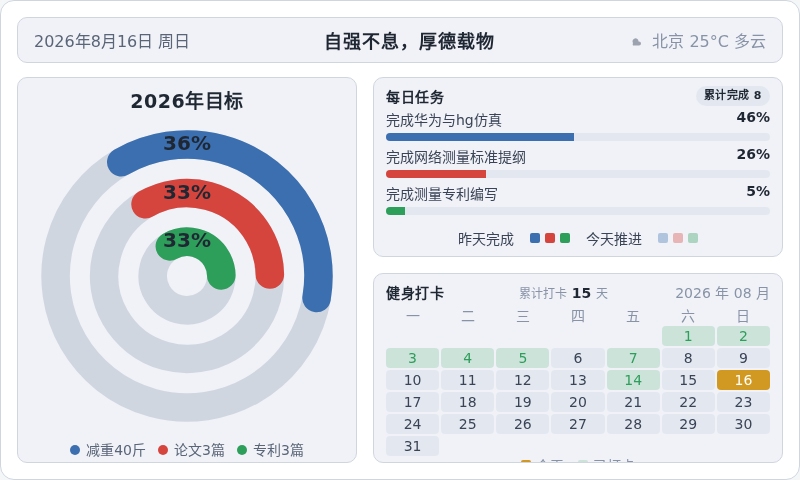
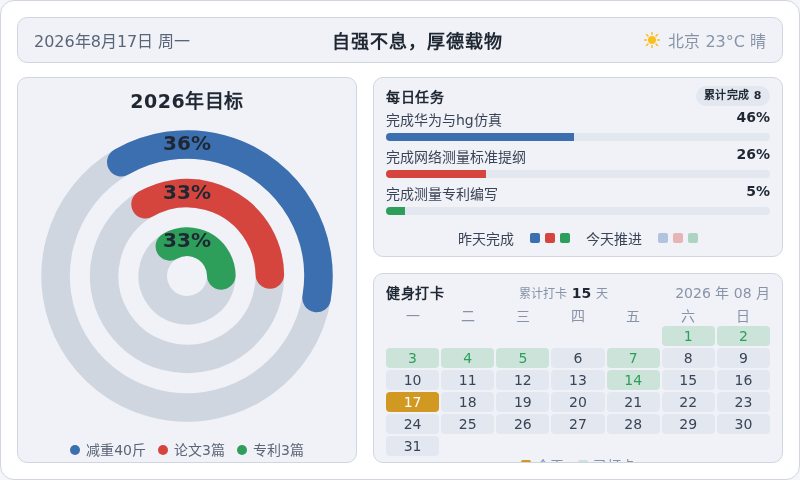
chore: 每日看板刷新 2026-08-17

diff --git a/output/dashboard.html b/output/dashboard.html
@@ -185,11 +185,11 @@
 <body>
   <div class="dash">
     <div class="topbar">
-      <div class="tb-date" id="tbDate">2026年8月16日 周日</div>
+      <div class="tb-date" id="tbDate">2026年8月17日 周一</div>
       <div class="tb-slogan">自强不息，厚德载物</div>
       <div class="tb-weather">
-        <svg width="16" height="16" viewBox="0 0 16 16" aria-hidden="true"><path d="M5 11 a3 3 0 1 1 5.5 -1.5 h0.5 a2 2 0 1 1 0 4 H5 a2.5 2.5 0 0 1 0 -2.5z" fill="#9ca3af"/></svg>
-        <span>北京 25°C 多云</span>
+        <svg width="16" height="16" viewBox="0 0 16 16" aria-hidden="true"><circle cx="8" cy="8" r="4" fill="#fbbf24"/><g stroke="#fbbf24" stroke-width="1.5" stroke-linecap="round"><line x1="8" y1="0.5" x2="8" y2="2.5"/><line x1="8" y1="13.5" x2="8" y2="15.5"/><line x1="0.5" y1="8" x2="2.5" y2="8"/><line x1="13.5" y1="8" x2="15.5" y2="8"/><line x1="2.5" y1="2.5" x2="3.9" y2="3.9"/><line x1="12.1" y1="12.1" x2="13.5" y2="13.5"/><line x1="13.5" y1="2.5" x2="12.1" y2="3.9"/><line x1="3.9" y1="12.1" x2="2.5" y2="13.5"/></g></svg>
+        <span>北京 23°C 晴</span>
       </div>
     </div>
     <div class="content">
@@ -248,7 +248,7 @@
           <span class="cal-date">2026 年 08 月</span>
         </div>
         <div class="cal-grid wk"><span>一</span><span>二</span><span>三</span><span>四</span><span>五</span><span>六</span><span>日</span></div>
-        <div class="cal-grid"><span class="cell empty"></span><span class="cell empty"></span><span class="cell empty"></span><span class="cell empty"></span><span class="cell empty"></span><span class="cell done" style="background:rgba(46,158,91,0.18);color:#2e9e5b">1</span><span class="cell done" style="background:rgba(46,158,91,0.18);color:#2e9e5b">2</span><span class="cell done" style="background:rgba(46,158,91,0.18);color:#2e9e5b">3</span><span class="cell done" style="background:rgba(46,158,91,0.18);color:#2e9e5b">4</span><span class="cell done" style="background:rgba(46,158,91,0.18);color:#2e9e5b">5</span><span class="cell" style="background:#e3e8f0;color:#3a4456">6</span><span class="cell done" style="background:rgba(46,158,91,0.18);color:#2e9e5b">7</span><span class="cell" style="background:#e3e8f0;color:#3a4456">8</span><span class="cell" style="background:#e3e8f0;color:#3a4456">9</span><span class="cell" style="background:#e3e8f0;color:#3a4456">10</span><span class="cell" style="background:#e3e8f0;color:#3a4456">11</span><span class="cell" style="background:#e3e8f0;color:#3a4456">12</span><span class="cell" style="background:#e3e8f0;color:#3a4456">13</span><span class="cell done" style="background:rgba(46,158,91,0.18);color:#2e9e5b">14</span><span class="cell" style="background:#e3e8f0;color:#3a4456">15</span><span class="cell today" style="background:#d29922;color:#ffffff">16</span><span class="cell" style="background:#e3e8f0;color:#3a4456">17</span><span class="cell" style="background:#e3e8f0;color:#3a4456">18</span><span class="cell" style="background:#e3e8f0;color:#3a4456">19</span><span class="cell" style="background:#e3e8f0;color:#3a4456">20</span><span class="cell" style="background:#e3e8f0;color:#3a4456">21</span><span class="cell" style="background:#e3e8f0;color:#3a4456">22</span><span class="cell" style="background:#e3e8f0;color:#3a4456">23</span><span class="cell" style="background:#e3e8f0;color:#3a4456">24</span><span class="cell" style="background:#e3e8f0;color:#3a4456">25</span><span class="cell" style="background:#e3e8f0;color:#3a4456">26</span><span class="cell" style="background:#e3e8f0;color:#3a4456">27</span><span class="cell" style="background:#e3e8f0;color:#3a4456">28</span><span class="cell" style="background:#e3e8f0;color:#3a4456">29</span><span class="cell" style="background:#e3e8f0;color:#3a4456">30</span><span class="cell" style="background:#e3e8f0;color:#3a4456">31</span></div>
+        <div class="cal-grid"><span class="cell empty"></span><span class="cell empty"></span><span class="cell empty"></span><span class="cell empty"></span><span class="cell empty"></span><span class="cell done" style="background:rgba(46,158,91,0.18);color:#2e9e5b">1</span><span class="cell done" style="background:rgba(46,158,91,0.18);color:#2e9e5b">2</span><span class="cell done" style="background:rgba(46,158,91,0.18);color:#2e9e5b">3</span><span class="cell done" style="background:rgba(46,158,91,0.18);color:#2e9e5b">4</span><span class="cell done" style="background:rgba(46,158,91,0.18);color:#2e9e5b">5</span><span class="cell" style="background:#e3e8f0;color:#3a4456">6</span><span class="cell done" style="background:rgba(46,158,91,0.18);color:#2e9e5b">7</span><span class="cell" style="background:#e3e8f0;color:#3a4456">8</span><span class="cell" style="background:#e3e8f0;color:#3a4456">9</span><span class="cell" style="background:#e3e8f0;color:#3a4456">10</span><span class="cell" style="background:#e3e8f0;color:#3a4456">11</span><span class="cell" style="background:#e3e8f0;color:#3a4456">12</span><span class="cell" style="background:#e3e8f0;color:#3a4456">13</span><span class="cell done" style="background:rgba(46,158,91,0.18);color:#2e9e5b">14</span><span class="cell" style="background:#e3e8f0;color:#3a4456">15</span><span class="cell" style="background:#e3e8f0;color:#3a4456">16</span><span class="cell today" style="background:#d29922;color:#ffffff">17</span><span class="cell" style="background:#e3e8f0;color:#3a4456">18</span><span class="cell" style="background:#e3e8f0;color:#3a4456">19</span><span class="cell" style="background:#e3e8f0;color:#3a4456">20</span><span class="cell" style="background:#e3e8f0;color:#3a4456">21</span><span class="cell" style="background:#e3e8f0;color:#3a4456">22</span><span class="cell" style="background:#e3e8f0;color:#3a4456">23</span><span class="cell" style="background:#e3e8f0;color:#3a4456">24</span><span class="cell" style="background:#e3e8f0;color:#3a4456">25</span><span class="cell" style="background:#e3e8f0;color:#3a4456">26</span><span class="cell" style="background:#e3e8f0;color:#3a4456">27</span><span class="cell" style="background:#e3e8f0;color:#3a4456">28</span><span class="cell" style="background:#e3e8f0;color:#3a4456">29</span><span class="cell" style="background:#e3e8f0;color:#3a4456">30</span><span class="cell" style="background:#e3e8f0;color:#3a4456">31</span></div>
         <div class="cal-legend">
           <span style="color:#8893a7"><i class="sw" style="background:#d29922"></i>今天</span>
           <span style="color:#8893a7"><i class="sw" style="background:rgba(46,158,91,0.18)"></i>已打卡</span>
